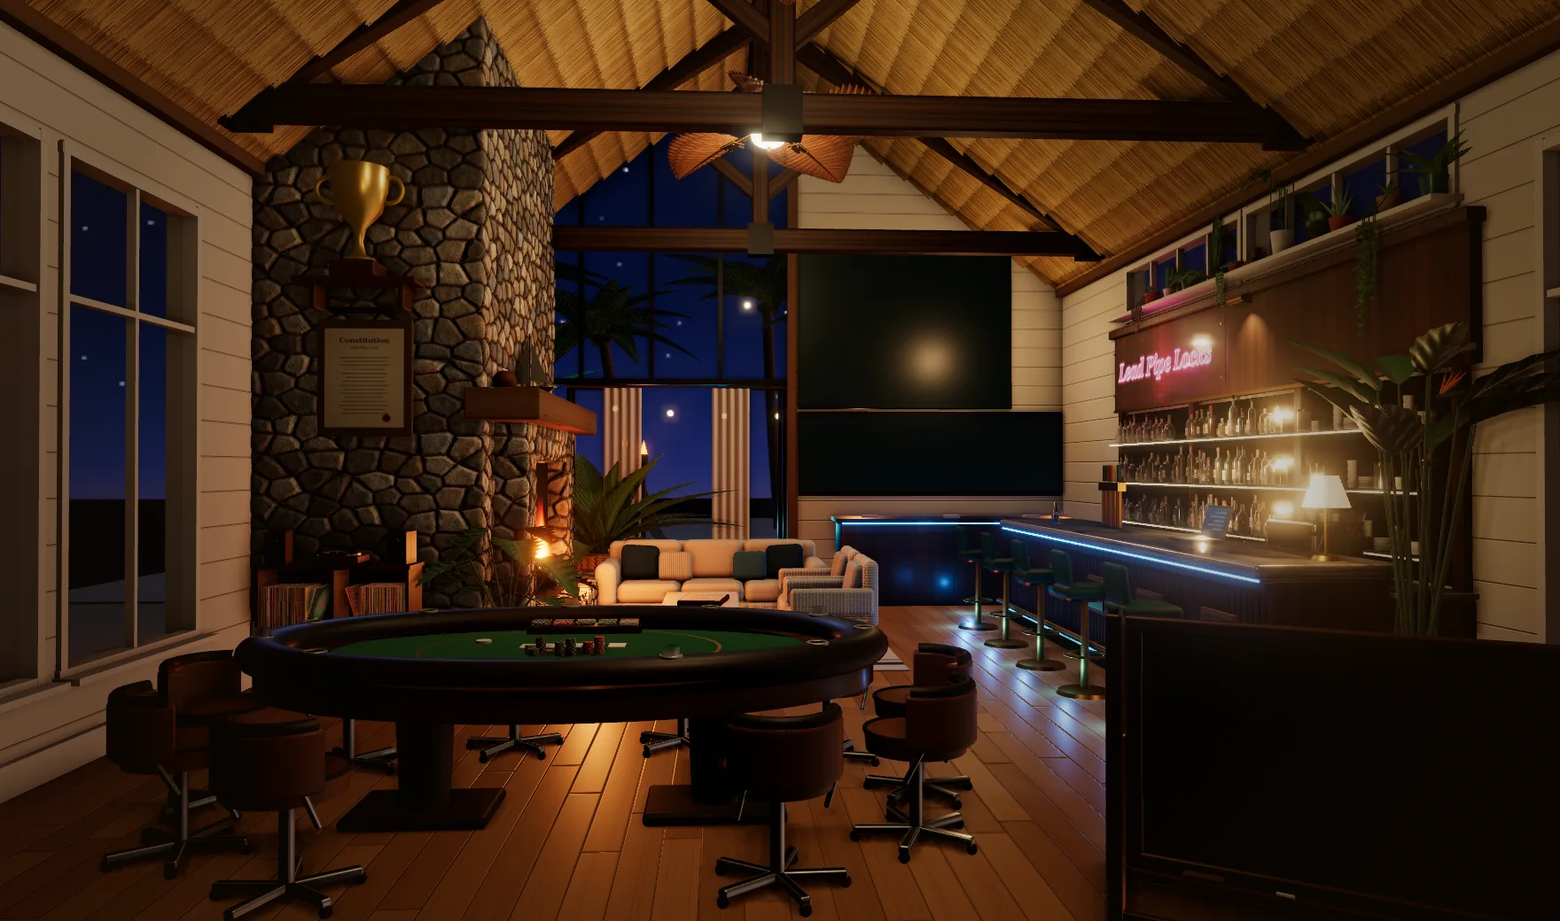
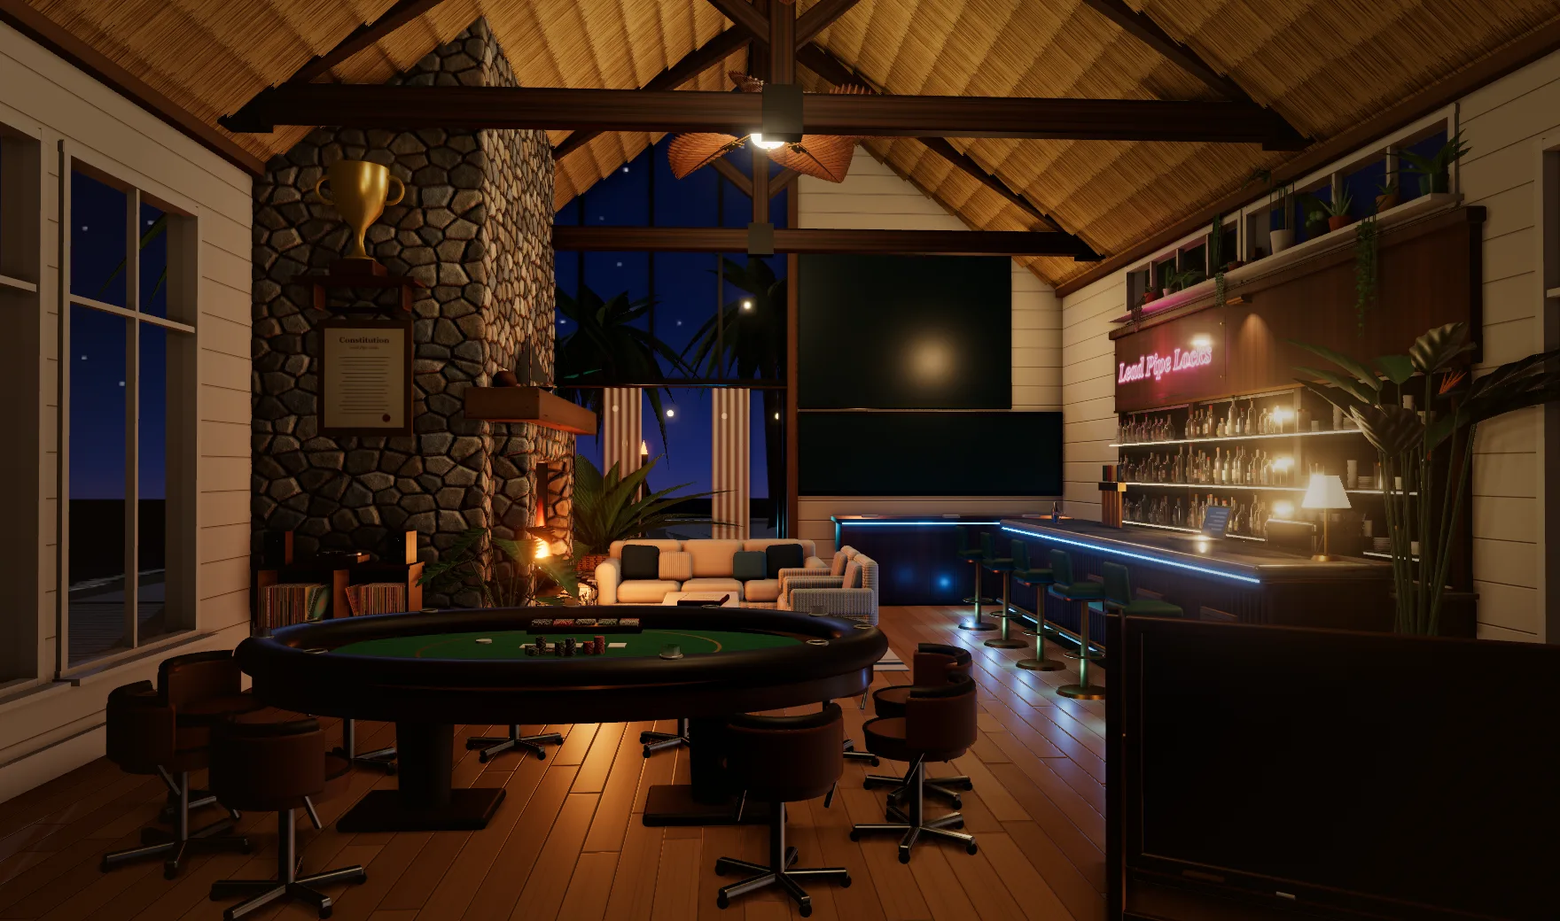
Clubhouse: a real beach outside the glass (coconut palms, cumulus, rippled sea, shallows, surf)

Changed region(s): [[0.3438, 0.2769, 0.5312, 0.4615], [0.7188, 0.2462, 0.7812, 0.3077], [0.0312, 0.6154, 0.0625, 0.6462]]

diff --git a/tools/clubhouse-room/room.js b/tools/clubhouse-room/room.js
@@ -17,7 +17,7 @@
 //    The floor in front of it is the way in. From Dec 7 the Bowl Pool's board stands at the front left.
 // Units are metres: x left to right, z from the front wall (0) to the back (-RD).
 import { THREE, RoundedBoxGeometry, materials } from "/lib.js";
-import { canvas, texture, rand, tile, oakFloor, shiplap, fieldstone, thatchBack, thatchCourse, cane, bladeWood, palmBlade, frond, flame as fireTongue, sky, walnutVeneer, bottleLabels, wrapTile, STONE, timberGrain, leatherGrain, leafSkin, spineSheet, pageEdges, albumCovers } from "/surfaces.js";
+import { canvas, texture, rand, tile, oakFloor, shiplap, fieldstone, thatchBack, thatchCourse, cane, bladeWood, palmBlade, frond, flame as fireTongue, sky, walnutVeneer, bottleLabels, wrapTile, STONE, timberGrain, leatherGrain, leafSkin, spineSheet, pageEdges, albumCovers, palmBark, palmFrondSheet, seaRipples, sandGrain, foamBand, seeded } from "/surfaces.js";
 import { RoomEnvironment } from "three/addons/environments/RoomEnvironment.js";
 import { EffectComposer } from "three/addons/postprocessing/EffectComposer.js";
 import { RenderPass } from "three/addons/postprocessing/RenderPass.js";
@@ -338,14 +338,49 @@ export async function buildRoom(q) {
   // A sunny jungle beach: coconut palms leaning every way (the crown heavy with nuts), banana plants and big-leafed undergrowth banked
   // thick along both sides of the patio and past the side windows, jungle-green headlands either side of the bay, white sand, and the
   // water turquoise over the shallows and deepening to blue.
-  const trunkBark = std(0x9a8064, { roughness: 1 }), nut = std(0x5a3a1a, { roughness: 0.8 }), frondDark = leafMat([47, 122, 58], 0.55, 6);
+  // Coconut palms as they grow: a tall ringed trunk, swollen a little at its foot and tapering as it climbs, bending as it leans; at the
+  // top a boot of old frond bases, a cluster of green and brown coconuts, and a crown of long feather fronds (leaflets hung from a
+  // midrib in a V, light showing between them): young ones standing up in the middle, the mature ones arching out and over, the oldest
+  // drooping, and one or two dead ones gone brown and hanging down the trunk. Each palm draws from a counter of its own; the shared one
+  // is still stepped the 57 draws the old palms took, so nothing else in the room moves.
+  const trunkBark = new THREE.MeshStandardMaterial({ ...palmBark([1, 1]), color: 0x9a948a, bumpScale: 4, roughness: 0.95 });
+  const nut = std(0x5a3a1a, { roughness: 0.8 }), nutGreen = std(0x6f7f2e, { roughness: 0.55 }), boot = std(0x6a5038, { roughness: 1 }), frondDark = leafMat([47, 122, 58], 0.55, 6);
+  const frondMat = (sheet) => { const m = new THREE.MeshStandardMaterial({ map: sheet, alphaTest: 0.45, side: THREE.DoubleSide, roughness: 0.62 }); m.userData.depth = new THREE.MeshDepthMaterial({ depthPacking: THREE.RGBADepthPacking, map: sheet, alphaTest: 0.45 }); return m; };
+  const frondMats = [frondMat(palmFrondSheet(201)), frondMat(palmFrondSheet(202)), frondMat(palmFrondSheet(203))], deadMat = frondMat(palmFrondSheet(204, true));
+  // one frond: along +x, rising from the crown then arching over and down (`hang`), its leaflets hung from the midrib in a V
+  const frondRibbon = (L, HW, arch, hang) => {
+    const NU = 40, NV = 8, pos = [], uvs = [], idx = [];
+    for (let i = 0; i <= NU; i++) {
+      const u = i / NU, y0 = L * (arch * u - (arch + hang) * u * u), w = HW * Math.sin(Math.PI * Math.pow(u * 0.96 + 0.04, 0.75));
+      for (let j = 0; j <= NV; j++) { const v = (j / NV) * 2 - 1; pos.push(u * L, y0 - Math.abs(v) * w * (0.3 + 0.55 * u), v * w); uvs.push(u, (v + 1) / 2); }
+    }
+    for (let i = 0; i < NU; i++) for (let j = 0; j < NV; j++) { const a = i * (NV + 1) + j, c = a + NV + 1; idx.push(a, a + 1, c, a + 1, c + 1, c); }
+    const geo = new THREE.BufferGeometry(); geo.setAttribute("position", new THREE.Float32BufferAttribute(pos, 3)); geo.setAttribute("uv", new THREE.Float32BufferAttribute(uvs, 2)); geo.setIndex(idx); geo.computeVertexNormals(); return geo;
+  };
+  const putFrond = (top, yaw, lift, geo, mat) => { const g = new THREE.Group(); g.position.set(...top); g.rotation.set(0, yaw, lift); out.add(g); const m = add(g, geo, mat, [0, 0, 0]); m.customDepthMaterial = mat.userData.depth; };
+  let palmSeed = 300;
   const palm = (x, z, h, lean = 0.3, turn = 0) => {
     const dx = Math.cos(turn) * lean * h * 0.25, dz = -Math.sin(turn) * lean * h * 0.25;
     const trunk = new THREE.CatmullRomCurve3([new THREE.Vector3(x, 0, z), new THREE.Vector3(x + dx * 0.9, h * 0.5, z + dz * 0.9), new THREE.Vector3(x + dx * 1.4, h, z + dz * 1.4)]);
-    add(out, new THREE.TubeGeometry(trunk, 20, 0.16, 10), trunkBark, [0, 0, 0]);
     const top = [x + dx * 1.4, h - 0.1, z + dz * 1.4];
-    spray(out, palmLeaf, leafGreen, top, 13, 2.3, [-0.1, 0.9]); spray(out, palmLeaf, frondDark, [top[0], top[1] + 0.1, top[2]], 6, 2.0, [0.5, 1.1]);
-    for (let k = 0; k < 5; k++) { const a = k * 1.3; add(out, new THREE.SphereGeometry(0.13, 12, 10), nut, [top[0] + Math.cos(a) * 0.17, top[1] - 0.12 - (k % 2) * 0.08, top[2] + Math.sin(a) * 0.17]); }
+    for (let k = 0; k < 57; k++) rand();
+    const rnd = seeded(palmSeed += 7);
+    // the trunk: swollen at the foot, tapering up, the bark's rings a hand apart whatever its height
+    const SEG = 160, RAD = 16, tube = new THREE.TubeGeometry(trunk, SEG, 1, RAD), tp = tube.attributes.position, tuv = tube.attributes.uv;
+    for (let i = 0; i <= SEG; i++) {
+      const t = i / SEG, centre = trunk.getPointAt(t), ring = 1 + 0.025 * Math.pow(Math.abs(Math.sin((t * h / 0.18) * Math.PI)), 8), r = (0.17 + 0.08 * (1 - t) + 0.12 * Math.exp(-t * h / 0.35)) * ring;   // each ring a slight ridge, so the outline is stepped like a real trunk
+      for (let j = 0; j <= RAD; j++) { const n = i * (RAD + 1) + j; tp.setXYZ(n, centre.x + (tp.getX(n) - centre.x) * r, centre.y + (tp.getY(n) - centre.y) * r, centre.z + (tp.getZ(n) - centre.z) * r); tuv.setXY(n, j / RAD, t * h / 1.6); }
+    }
+    tube.computeVertexNormals(); add(out, tube, trunkBark, [0, 0, 0]);
+    add(out, new THREE.CylinderGeometry(0.2, 0.16, 0.55, 12), boot, [top[0], top[1] - 0.25, top[2]]);   // the boot of old frond bases
+    for (let k = 0; k < 9; k++) { const a = k * 0.8 + rnd() * 0.4, ring = 0.2 + (k % 3) * 0.04; add(out, new THREE.SphereGeometry(0.12 + rnd() * 0.03, 14, 12), k % 3 ? nutGreen : nut, [top[0] + Math.cos(a) * ring, top[1] - 0.22 - (k % 3) * 0.1, top[2] + Math.sin(a) * ring], { scale: 1.05 }); }
+    const L = 2.6 + h * 0.08, N = 28;
+    for (let k = 0; k < N; k++) {
+      const tier = k % 3, yaw = (k / N) * Math.PI * 2 + rnd() * 0.35, len = L * (tier === 0 ? 0.72 : 0.9 + rnd() * 0.15);
+      const lift = tier === 0 ? 0.55 + rnd() * 0.35 : tier === 1 ? 0.05 + rnd() * 0.3 : -0.35 + rnd() * 0.25;
+      putFrond([top[0], top[1] + (tier === 0 ? 0.08 : 0), top[2]], yaw, lift, frondRibbon(len, 0.5, tier === 0 ? 0.35 : 0.45, tier === 0 ? 0.25 : 0.9 + rnd() * 0.3), frondMats[k % 3]);
+    }
+    for (let k = 0; k < 2; k++) putFrond([top[0], top[1] - 0.2, top[2]], rnd() * Math.PI * 2, -1.25 - rnd() * 0.2, frondRibbon(L * 0.8, 0.3, 0.1, 0.3), deadMat);   // dead fronds hanging down the trunk
   };
   palm(-6.2, ZB - 3.6, 6.2, 0.4, 2.6); palm(6.6, ZB - 4.5, 7.2, 0.5, 0.3); palm(-3.4, ZB - 10, 5.5, 0.35, 1.9); palm(5.0, ZB - 11, 6.4, 0.6, 0.6);
   palm(-1.2, ZB - 15.5, 6.8, 0.7, 1.4); palm(2.4, ZB - 16.5, 5.8, 0.8, 0.2); palm(-8.5, ZB - 9, 7.8, 0.4, 2.2);
@@ -377,10 +412,22 @@ export async function buildRoom(q) {
   }
   // On the sea side the sand runs only a few metres past the wall; past it the sea comes right round the house, turquoise over the
   // shallows, and curves away along the coast to a far headland: a sheer cliff of pale rock with jungle on its top.
-  add(out, box(49, 0.1, 50), std(0xe8d9b4, { roughness: 1 }), [-15.5, -0.09, -12], { cast: false });                                   // white sand, the jungle side and under the house
-  add(out, box(320, 0.05, 320), std(night ? 0x0e2a46 : 0x1f7fb8, { roughness: 0.15 }), [169, -0.32, -60], { cast: false });              // the sea, deep blue, on the sea side
-  add(out, box(5, 0.05, 50), std(night ? 0x123a56 : 0x36c9c6, { roughness: 0.12 }), [11.5, -0.28, -12], { cast: false });            // the shallows along the shore
-  add(out, box(1.2, 0.3, 50), std(0xece0be), [9.4, -0.2, -12], { cast: false });                                                    // the wet edge of the beach
+  // the sea: wind ripples catching the sky, turquoise over the sand of the shallows and deepening out to blue; white sand with its grain
+  // and ripples; a darker band of wet sand at the waterline and a lacy line of surf where each little wave breaks
+  const seaMat = (colour, repeat) => new THREE.MeshStandardMaterial({ ...seaRipples(night, repeat), color: colour, bumpScale: 0.6, roughness: 0.08, metalness: 0.1 });
+  const sandMat = (colour, repeat) => new THREE.MeshStandardMaterial({ ...sandGrain(repeat), color: colour, bumpScale: 1.2, roughness: 1 });
+  const surf = (w, d, [x, y, z], rotY) => { const m = new THREE.MeshBasicMaterial({ map: foamBand(), transparent: true, opacity: night ? 0.25 : 0.85, depthWrite: false, fog: true }); m.map.repeat.set(w / 6, 1); add(out, new THREE.PlaneGeometry(w, d), m, [x, y, z], { cast: false, receive: false, rot: [-Math.PI / 2, 0, rotY] }); };
+  add(out, box(49, 0.1, 50), sandMat(0xffffff, [12, 12]), [-15.5, -0.09, -12], { cast: false });                                   // white sand, the jungle side and under the house
+  add(out, box(320, 0.05, 320), seaMat(night ? 0x8090b0 : 0x6fa6d8, [60, 60]), [169, -0.32, -60], { cast: false });              // the sea, deep blue, on the sea side
+  add(out, box(1.2, 0.3, 50), sandMat(0xbdb6a6, [1, 20]), [9.4, -0.2, -12], { cast: false });                                                    // the wet edge of the beach
+  surf(50, 1.4, [10.2, -0.04, -12], Math.PI / 2);
+  const fade = (w, d, [x, z], rotY, colour, shoreAtPlusY) => {   // the shallows thin out into the deep with no edge: turquoise at the shore, clear by the far side
+    const geo = new THREE.PlaneGeometry(w, d, 1, 24), p = geo.attributes.position, tint = new THREE.Color(colour), rgba = [];
+    for (let i = 0; i < p.count; i++) { const k = p.getY(i) / d + 0.5, fromShore = shoreAtPlusY ? 1 - k : k; rgba.push(tint.r, tint.g, tint.b, 0.9 * Math.pow(1 - fromShore, 1.4)); }
+    geo.setAttribute("color", new THREE.Float32BufferAttribute(rgba, 4));
+    add(out, geo, new THREE.MeshStandardMaterial({ vertexColors: true, bumpMap: seaRipples(night, [w / 6, d / 6]).bumpMap, bumpScale: 0.5, roughness: 0.08, transparent: true, depthWrite: false, side: THREE.DoubleSide }), [x, -0.2, z], { cast: false, receive: false, rot: [-Math.PI / 2, 0, rotY] });
+  };
+  fade(50, 9, [14.0, -12], Math.PI / 2, night ? 0x2a6a80 : 0x46d0c8, true);
   const rock = std(night ? 0x2a2a30 : 0x9c8a72, { roughness: 1 }), rockDark = std(night ? 0x1e1e24 : 0x75664f, { roughness: 1 }), cliffTop = std(night ? 0x0c1e14 : 0x3f7a4a, { roughness: 1 });
   for (const [x, z, w, h, d, turn] of [[130, -98, 30, 13, 14, 0.5], [146, -68, 24, 11, 12, 0.3], [114, -126, 28, 15, 12, 0.8], [158, -42, 20, 9, 10, 0.1]]) {   // far along the coast, low on the horizon
     // a sloping headland, not a wall: narrow at the top, spreading wide to the sea, with a long low shoulder running down into the water
@@ -391,9 +438,10 @@ export async function buildRoom(q) {
     const top = add(out, new THREE.SphereGeometry(1, 20, 10), cliffTop, [x, h - 0.6, z], { cast: false }); top.scale.set(w * 0.3, 2.2, w * 0.3);
     for (let k = 0; k < 12; k++) add(out, new THREE.SphereGeometry(1 + rand() * 1.2, 10, 8), cliffTop, [x + (rand() - 0.5) * w * 0.45, h + 0.6 + rand(), z + (rand() - 0.5) * w * 0.45], { cast: false });
   }
-  add(out, box(49, 0.05, 40), std(night ? 0x0e2a46 : 0x1f7fb8, { roughness: 0.15 }), [-15.5, -0.321, ZB - 46], { cast: false });   // the sea, deep blue
-  add(out, box(49, 0.05, 8), std(night ? 0x123a56 : 0x36c9c6, { roughness: 0.12 }), [-15.5, -0.28, ZB - 24], { cast: false });    // the shallows, turquoise
-  add(out, box(49, 0.4, 2), std(0xece0be), [-15.5, -0.2, ZB - 19.8], { cast: false });                                         // the beach
+  add(out, box(49, 0.05, 40), seaMat(night ? 0x8090b0 : 0x6fa6d8, [10, 8]), [-15.5, -0.321, ZB - 46], { cast: false });   // the sea, deep blue
+  add(out, box(49, 0.4, 2), sandMat(0xbdb6a6, [12, 1]), [-15.5, -0.2, ZB - 19.8], { cast: false });                                         // the beach
+  surf(49, 1.4, [-15.5, 0.01, ZB - 20.9], 0);
+  fade(49, 9, [-15.5, ZB - 25.5], 0, night ? 0x2a6a80 : 0x46d0c8, false);
   const skyPlane = new THREE.Mesh(new THREE.PlaneGeometry(140, 60), new THREE.MeshBasicMaterial({ map: sky(night), fog: false }));
   skyPlane.position.set(0, 26, ZB - 58); scene.add(skyPlane);
   // the same sky round both sides, so every side window looks out at open air (the sea and its far cliff on one side, the jungle on the other)

diff --git a/tools/clubhouse-room/surfaces.js b/tools/clubhouse-room/surfaces.js
@@ -252,9 +252,10 @@ export function sky(night) {
     let s = 11; const star = () => { s = (s * 16807) % 2147483647; return s / 2147483647; };
     for (let i = 0; i < 260; i++) { g.fillStyle = `rgba(255, 255, 255, ${0.3 + star() * 0.7})`; g.fillRect(star() * 1024, star() * 420, 1 + star(), 1 + star()); }
     for (let i = 0; i < 270; i++) rand();
-  } else for (let k = 0; k < 9; k++) {
-    const cx = rand() * 1024, cy = 330 + rand() * 110, s = 30 + rand() * 40;
-    for (let p = 0; p < 9; p++) { const x = cx + (rand() - 0.5) * s * 3.4, y = cy + (rand() - 0.5) * s * 0.5, r = s * (0.5 + rand() * 0.6), cg = g.createRadialGradient(x, y, 0, x, y, r); cg.addColorStop(0, "rgba(255, 255, 255, .8)"); cg.addColorStop(1, "rgba(255, 255, 255, 0)"); g.fillStyle = cg; g.fillRect(x - r, y - r, r * 2, r * 2); }
+  } else {
+    // real cumulus from a counter of their own; the shared one is still stepped the 270 draws the old clouds took, so the room is unchanged
+    cumulus(g, 1024, 512); for (let i = 0; i < 270; i++) rand();
+    const haze = g.createLinearGradient(0, 400, 0, 512); haze.addColorStop(0, "rgba(240, 246, 244, 0)"); haze.addColorStop(1, "rgba(240, 246, 244, .55)"); g.fillStyle = haze; g.fillRect(0, 400, 1024, 112);
   }
   return texture(c);
 }
@@ -470,3 +471,102 @@ export function albumCovers() {
   });
   return { map: texture(c), spines };
 }
+
+// A coconut palm's trunk, round its girth (the width) and up its height: grey-tan bark ringed every hand's width with the scars the old
+// fronds left, the rings wavering a little and not quite level, fine fibres running up between them and a slow wash of weathering.
+// The relief presses the rings in.
+export function palmBark(repeat = [1, 6]) {
+  const rnd = stream(61), W = 256, H = 512;
+  return pair(W, H, (g, b) => {
+    g.fillStyle = "rgb(146, 138, 124)"; g.fillRect(0, 0, W, H);
+    for (let k = 0; k < 30; k++) { const x = rnd() * W, y = rnd() * H, r = 20 + rnd() * 50, wash = g.createRadialGradient(x, y, 0, x, y, r); wash.addColorStop(0, `rgba(${rnd() < 0.5 ? "190, 186, 176" : "96, 88, 74"}, .25)`); wash.addColorStop(1, "rgba(0, 0, 0, 0)"); g.fillStyle = wash; g.fillRect(x - r, y - r, r * 2, r * 2); }   // weathering: sun-bleached patches and darker damp ones
+    b.fillStyle = "rgb(150, 150, 150)"; b.fillRect(0, 0, W, H);
+    for (let k = 0; k < 40; k++) { const x = rnd() * W, w = 20 + rnd() * 60; g.fillStyle = `rgba(${rnd() < 0.5 ? "90, 80, 66" : "196, 186, 168"}, ${0.08 + rnd() * 0.1})`; g.fillRect(x, 0, w, H); g.fillRect(x - W, 0, w, H); }
+    for (let k = 0; k < 900; k++) { const x = rnd() * W, y = rnd() * H, h = 6 + rnd() * 30, dark = rnd() < 0.55; g.fillStyle = dark ? `rgba(80, 70, 56, ${0.12 + rnd() * 0.2})` : `rgba(214, 204, 186, ${0.1 + rnd() * 0.18})`; g.fillRect(x, y, 1 + rnd(), h); b.fillStyle = dark ? "rgba(90, 90, 90, .35)" : "rgba(200, 200, 200, .3)"; b.fillRect(x, y, 1, h); }
+    const rings = 9;
+    for (let r = 0; r < rings; r++) {
+      const y0 = (r + 0.3 + rnd() * 0.3) * (H / rings), tilt = (rnd() - 0.5) * 10, wob = 2 + rnd() * 3;
+      const line = (ctx, colour, width, dy) => { ctx.strokeStyle = colour; ctx.lineWidth = width; ctx.beginPath(); for (let x = 0; x <= W; x += 4) { const y = y0 + dy + (x / W - 0.5) * tilt + Math.sin((x / W) * Math.PI * 2 * 2 + r) * wob; x ? ctx.lineTo(x, y) : ctx.moveTo(x, y); } ctx.stroke(); };
+      line(g, "rgba(200, 192, 176, .35)", 10, -7);   // the lip above the scar catches the light
+      line(g, "rgba(70, 62, 52, .5)", 3, 0);       // the scar itself
+      line(g, "rgba(98, 90, 78, .25)", 8, 5);
+      line(b, "rgba(230, 230, 230, .8)", 8, -6); line(b, "rgba(20, 20, 20, .95)", 5, 0);
+    }
+  }, repeat);
+}
+
+// One coconut frond, flat (along its length the width of the picture, across it the height, the midrib down the middle): long narrow
+// leaflets in pairs, each leaving the rib angled toward the tip, tapering to a point, the odd one shorter or split away so light
+// shows between them. Transparent between the leaflets (alpha). `dead` paints it as an old frond, gone straw and brown.
+export function palmFrondSheet(seed, dead = false) {
+  const rnd = stream(seed), W = 1024, H = 256, c = canvas(W, H), g = c.getContext("2d");
+  const tone = () => dead ? [150 + rnd() * 40, 118 + rnd() * 30, 70 + rnd() * 20] : [40 + rnd() * 26, 96 + rnd() * 34, 34 + rnd() * 18];
+  g.lineCap = "round";
+  for (let i = 0; i < 84; i++) {
+    const u = 0.04 + (i / 84) * 0.94, x0 = u * W, len = Math.sin(Math.PI * Math.pow(u, 0.75)) * (H * 0.5) * (0.82 + rnd() * 0.18);
+    for (const side of [-1, 1]) {
+      if (rnd() < (dead ? 0.22 : 0.03)) continue;   // a gap where a leaflet has torn away
+      const short = rnd() < 0.12 ? 0.55 : 1, l = len * short, sweep = l * (0.55 + u * 0.35), [r, gg, bl] = tone();
+      const x1 = x0 + sweep, y1 = H / 2 + side * l, bend = side * l * 0.18;
+      const grad = g.createLinearGradient(x0, H / 2, x1, y1);
+      grad.addColorStop(0, `rgb(${r * 0.8}, ${gg * 0.85}, ${bl * 0.8})`); grad.addColorStop(0.5, `rgb(${r}, ${gg}, ${bl})`); grad.addColorStop(1, `rgb(${Math.min(255, r * 1.15)}, ${Math.min(255, gg * 1.1)}, ${bl})`);
+      g.strokeStyle = grad;
+      for (const [w, a] of [[15, 1], [10, 1], [5, 1]]) { g.lineWidth = w * (1 - u * 0.4); g.globalAlpha = a; g.beginPath(); g.moveTo(x0, H / 2); g.quadraticCurveTo(x0 + sweep * 0.4, H / 2 + side * l * 0.55 + bend, x1, y1); g.stroke(); }
+      g.globalAlpha = 1; g.strokeStyle = `rgba(${dead ? "220, 200, 150" : "170, 200, 120"}, .45)`; g.lineWidth = 1; g.beginPath(); g.moveTo(x0, H / 2); g.quadraticCurveTo(x0 + sweep * 0.4, H / 2 + side * l * 0.55 + bend, x1, y1); g.stroke();   // its own midrib
+    }
+  }
+  g.strokeStyle = dead ? "rgb(170, 140, 90)" : "rgb(150, 160, 90)"; g.lineWidth = 7; g.beginPath(); g.moveTo(0, H / 2); g.lineTo(W, H / 2); g.stroke();   // the frond's midrib
+  const t = texture(c); t.premultiplyAlpha = false; return t;
+}
+
+// The sea seen from the beach: small wind ripples catching the sky in thin bright dashes over deeper troughs, laid across the water
+// (the width runs along the shore). Tiles.
+export function seaRipples(night = false, repeat = [1, 1]) {
+  const rnd = stream(67), W = 512, H = 512;
+  return pair(W, H, (g, b) => {
+    g.fillStyle = night ? "rgb(20, 50, 80)" : "rgb(40, 132, 186)"; g.fillRect(0, 0, W, H);
+    b.fillStyle = "rgb(128, 128, 128)"; b.fillRect(0, 0, W, H);
+    for (let k = 0; k < 1400; k++) {
+      const x = rnd() * W, y = rnd() * H, w = 6 + rnd() * 26, h = 1 + rnd() * 2, light = rnd() < 0.5;
+      g.fillStyle = light ? (night ? `rgba(120, 160, 210, ${0.15 + rnd() * 0.2})` : `rgba(200, 236, 250, ${0.18 + rnd() * 0.3})`) : `rgba(10, 40, 80, ${0.12 + rnd() * 0.18})`;
+      g.fillRect(x, y, w, h); g.fillRect(x - W, y, w, h);
+      b.fillStyle = light ? "rgba(255, 255, 255, .5)" : "rgba(0, 0, 0, .5)"; b.fillRect(x, y, w, h + 1); b.fillRect(x - W, y, w, h + 1);
+    }
+  }, repeat);
+}
+
+// The white sand: fine grain, a few shell flecks and soft wind ripples. Tiles.
+export function sandGrain(repeat = [1, 1]) {
+  const rnd = stream(71), W = 256, H = 256;
+  return pair(W, H, (g, b) => {
+    g.fillStyle = "rgb(232, 218, 184)"; g.fillRect(0, 0, W, H); b.fillStyle = "rgb(128, 128, 128)"; b.fillRect(0, 0, W, H);
+    for (let y = 0; y < H; y += 16) for (const [ctx, colour, dy] of [[g, "rgba(196, 178, 140, .35)", 0], [g, "rgba(250, 242, 222, .4)", -3], [b, "rgba(40, 40, 40, .5)", 0], [b, "rgba(220, 220, 220, .5)", -3]]) {
+      ctx.strokeStyle = colour; ctx.lineWidth = 3; ctx.beginPath(); for (let x = 0; x <= W; x += 8) { const yy = y + dy + Math.sin((x / W) * Math.PI * 4 + y) * 3; x ? ctx.lineTo(x, yy) : ctx.moveTo(x, yy); } ctx.stroke();
+    }
+    for (let k = 0; k < 5000; k++) { const v = rnd(); g.fillStyle = v < 0.5 ? `rgba(170, 150, 110, ${0.2 + rnd() * 0.3})` : `rgba(255, 250, 236, ${0.25 + rnd() * 0.35})`; g.fillRect(rnd() * W, rnd() * H, 1, 1); }
+  }, repeat);
+}
+
+// Surf along the waterline: a lacy band of white foam, thick where the wave has just broken and thinning to nothing up the sand and out
+// over the water. Transparent around the foam. The band runs along the width.
+export function foamBand() {
+  const rnd = stream(73), W = 1024, H = 128, c = canvas(W, H), g = c.getContext("2d");
+  for (let k = 0; k < 2200; k++) {
+    const x = rnd() * W, edge = H * (0.45 + Math.sin(x / 70) * 0.08), y = edge + (rnd() - 0.4) * H * 0.5 * rnd(), r = 1 + rnd() * 5;
+    g.fillStyle = `rgba(255, 255, 255, ${0.25 + rnd() * 0.5})`; g.beginPath(); g.arc(x, y, r, 0, Math.PI * 2); g.fill();
+  }
+  const t = texture(c, [6, 1]); return t;
+}
+
+// Fair-weather cumulus for the sky: each cloud a heap of soft puffs, white on top where the sun falls and a cool grey underneath, flat-
+// bottomed, smaller and flatter toward the horizon. Drawn onto the sky's own canvas.
+export function cumulus(g, W, H) {
+  const rnd = stream(79);
+  for (let k = 0; k < 14; k++) {
+    const far = rnd(), cx = rnd() * W, base = H * (0.3 + far * 0.55), s = (1 - far * 0.6) * (40 + rnd() * 36), puffs = 8 + Math.floor(rnd() * 8);
+    const blobs = Array.from({ length: puffs }, () => ({ x: cx + (rnd() - 0.5) * s * 4.2, y: base - rnd() * s * (1.3 - far * 0.6), r: s * (0.45 + rnd() * 0.55) }));
+    for (const { x, y, r } of blobs) { const sh = g.createRadialGradient(x, y + r * 0.35, 0, x, y + r * 0.35, r); sh.addColorStop(0, "rgba(176, 192, 210, .55)"); sh.addColorStop(1, "rgba(176, 192, 210, 0)"); g.fillStyle = sh; g.beginPath(); g.arc(x, y + r * 0.35, r, 0, Math.PI * 2); g.fill(); }   // the cool shade underneath
+    for (const { x, y, r } of blobs) { const lit = g.createRadialGradient(x - r * 0.2, y - r * 0.3, 0, x, y, r); lit.addColorStop(0, "rgba(255, 255, 255, .95)"); lit.addColorStop(0.6, "rgba(246, 250, 255, .7)"); lit.addColorStop(1, "rgba(240, 246, 255, 0)"); g.fillStyle = lit; g.beginPath(); g.arc(x, y, r, 0, Math.PI * 2); g.fill(); }
+  }
+}
+export const seeded = stream;

diff --git a/docs/DECISION_LOG.md b/docs/DECISION_LOG.md
@@ -21,6 +21,11 @@ Add new entries at the top of this file. When it passes about 60 KB, move
 everything older than about two weeks into a new file under `docs/decisions/`
 and add a row above. (It is read at the start of every change, so short is cheaper.)
 
+## 2026-11-26 - Clubhouse: a real beach outside the glass
+
+- The outside of the clubhouse room is drawn to look real (owner: "the palm trees ... not very convincing. None of the outside is really"). Coconut palms: a grey, weathered trunk ringed where old fronds fell, swollen at its foot and tapering up, a boot of old frond bases, green and brown coconuts, and a crown of long feather fronds (narrow leaflets hung from the midrib in a V, light between them), young ones upright, older ones arching over, one or two dead brown fronds hanging. Sky: fair-weather cumulus, white on top and grey underneath, with haze at the horizon. Sea: wind ripples catching the light; turquoise shallows fading into deep blue with no edge; grainy, rippled sand; a darker band of wet sand and a lacy line of surf at the waterline.
+- Nothing inside the room moved: every new surface draws from its own random counter, and the shared one is still stepped exactly as before, so the tap spots (`src/lib/clubhouse-room.json`) are unchanged.
+
 ## 2026-11-25 - Clubhouse: a bookcase by the fire, a real neon sign, Notifications on the thatch
 
 - A low walnut record cabinet stands against the chimney's near face under the constitution (owner's spot and ask): two rows of square bays packed with LPs on their edges, spines out in their covers' colours, two or three leaning at each bay's end so their covers show (sixteen made-up covers on one sheet, no real words). On top a small record player (walnut plinth, black record with a red label, tone arm) between two walnut bookshelf speakers toed in toward the room. It stands clear of the stones' relief.
